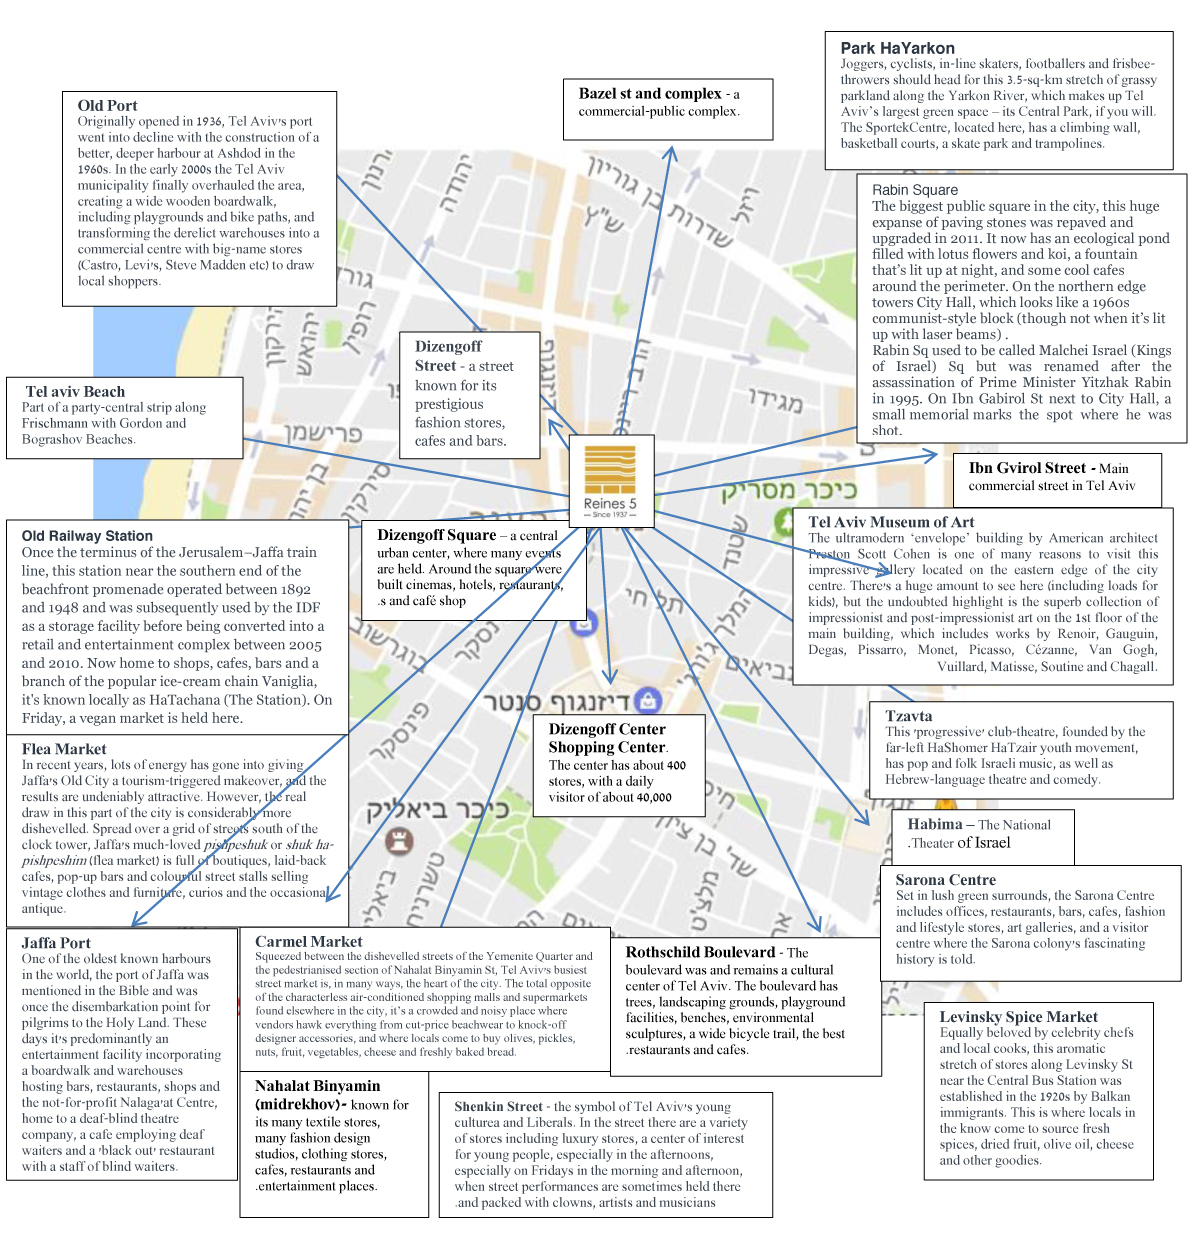
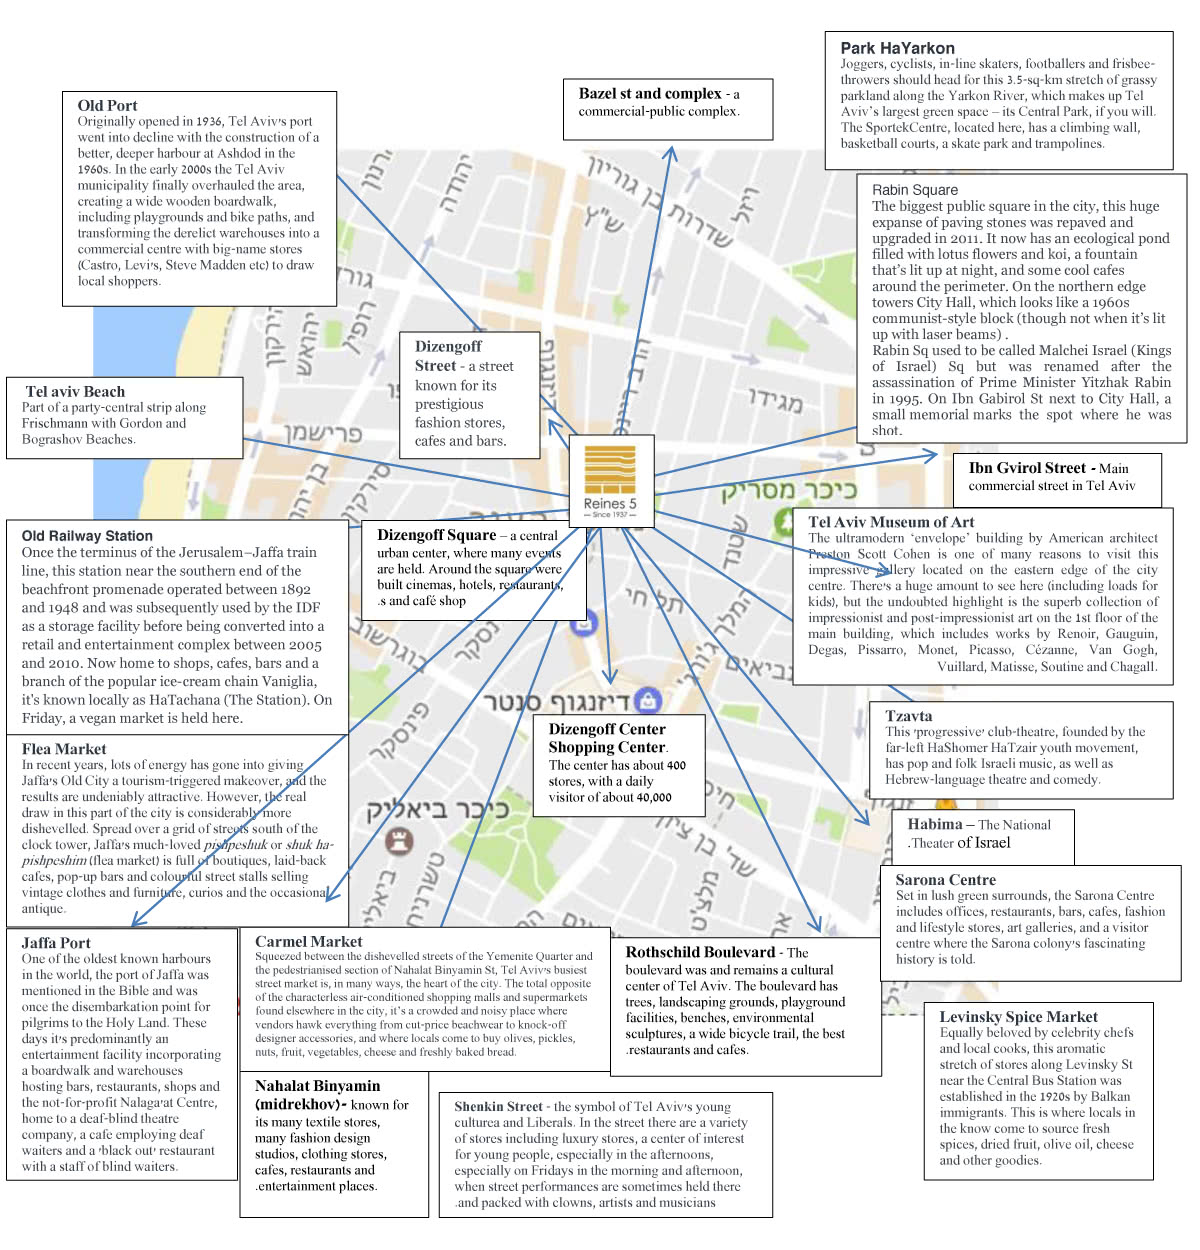
Optimzied images and svg. added site sprite to body.

diff --git a/Checklist.md b/Checklist.md
@@ -10,9 +10,9 @@ All of these need to be checked manually, changed and then committed. System wil
 	- [x] Site title is properly defined;
 	- [x] No errors or warnings are reported in the log file;
 	- [ ] Templates for registering and recovering user password are created and selected;
-	- [ ] PNG images are optimized using `optipng` command;
-	- [ ] JPEG images are converted from original PNG and optimized using `guetzli` command;
-	- [ ] SVG images are cleaned and optimized;
+	-> [x] PNG images are optimized using `optipng` command;
+	- [x] JPEG images are converted from original PNG and optimized using `guetzli` command;
+	- [x] SVG images are cleaned and optimized;
 	- [ ] Site has favicon specified in different sizes (16, 32, 64);
 	- [x] All active elements of the site have `:hover` and `:focus` styles defined;
 	- [x] Site has copyright;
